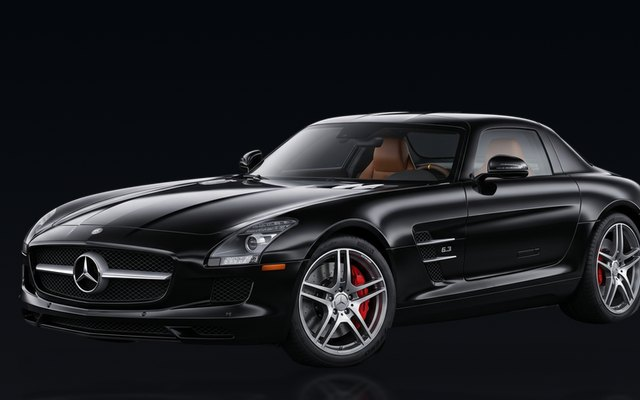
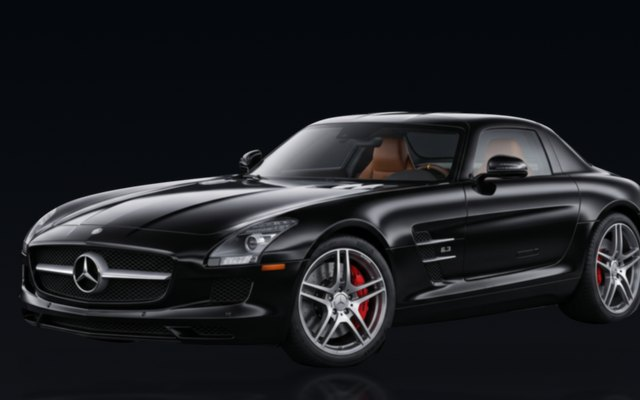
Restore the SLS's rear bumper, and soften it to the garage's detail
Paul spotted the car chopped behind the rear wheel. The cause was the
designer's cut-out, not the hero build: the rear quarter and bumper sit a few
levels off the black backdrop -- darker above the crease, lighter below it
where they catch the floor, and exactly backdrop-coloured across the crease
itself -- so the cut ran straight down the back of the tyre and left a
jagged corner piece stranded beside it. The outline was re-traced off the
render's own row profiles (render rows 704-948, edge at x 2536-2552), and
7,396 pixels restored from the render, unedited. Nothing else in the master
changed; the designer's original is in history.

He also asked why the SLS looked cleaner and sharper than the other fifteen.
Measured on the body (mean |L - blur 1.5px|), it was the sharpest car in the
garage: 9.7 against a median of 5.3 and a highest of 7.2 (the Senna). The
fifteen were cut 1:1 from 1374x768 JPEG frames; the SLS was cut from a
2816px render and shrunk about 3x, which carries detail those frames never
had. build-car-hero.py gains --soften, a premultiplied blur of the car's
colour (never its outline) applied before the floor is derived; at 0.7px the
SLS measures 6.35, inside the fifteen's 2.62-7.18.

Its contrast (57 against a median 38) is the render's studio lighting and is
left alone: evening that out would be grading, not matching resolution.

Geometry unchanged: 758x305, lowest pixel row 474, groundLine 0.6598.

diff --git a/scripts/build-car-hero.py b/scripts/build-car-hero.py
@@ -1,12 +1,12 @@
 #!/usr/bin/env python3
 """Build a car's hero PNG and index tile from a cut-out.
 
-    python3 scripts/build-car-hero.py <cutout.png> <slug> --width <px> [--hue LO-HI]
+    python3 scripts/build-car-hero.py <cutout.png> <slug> --width <px> [--hue LO-HI] [--soften SIGMA]
     python3 scripts/build-car-hero.py --check <slug> [<slug> ...]
 
 The SLS AMG (car 16) was built with:
     python3 scripts/build-car-hero.py docs/design/cars/car-16-sls-amg-cutout.png \\
-        mercedes-sls-amg --width 758 --hue 18-45
+        mercedes-sls-amg --width 758 --hue 18-45 --soften 0.7
 
 The first form writes public/cars/<slug>.png (898 x 660 RGBA) and
 public/cars/<slug>-tile.jpg (640 x 400), then prints the numbers cars.ts
@@ -43,7 +43,7 @@ import os
 import sys
 
 import numpy as np
-from PIL import Image
+from PIL import Image, ImageFilter
 
 ROOT = os.path.dirname(os.path.dirname(os.path.abspath(__file__)))
 CARS = os.path.join(ROOT, "public", "cars")
@@ -140,6 +140,26 @@ def mirror(layer, k):
     out = resample_rows(layer, AXIS - (y - AXIS) / k)
     out[y < AXIS] = 0
     return out
+
+
+def soften(car_img, sigma):
+    """Blur the car's colour (not its outline) by `sigma` px.
+
+    The fifteen were cut at 1:1 from 1374 x 768 JPEG frames; a car cut from a
+    bigger render and shrunk carries detail none of them has — the SLS, from a
+    2816px render at 0.34x, measured 9.7 on the fine-detail scale (mean
+    |L - blur 1.5px| on the body) against a median 5.3 for the fifteen, the
+    sharpest car in the garage by a distance. Premultiplied, so no dark rim
+    bleeds in from the transparent pixels; alpha is left as cut.
+    """
+    a = np.asarray(car_img).astype(float) / 255
+    alpha = a[:, :, 3]
+    pre = a[:, :, :3] * alpha[:, :, None]
+    soft_pre = np.stack([blur(pre[:, :, c], sigma, sigma) for c in range(3)], 2)
+    soft_a = blur(alpha, sigma, sigma)
+    rgb = np.where(soft_a[:, :, None] > 1e-4, soft_pre / np.maximum(soft_a, 1e-4)[:, :, None], 0)
+    rgb = np.where(alpha[:, :, None] > 0, rgb, a[:, :, :3])
+    return Image.fromarray(np.round(np.dstack([np.clip(rgb, 0, 1), alpha]) * 255).astype(np.uint8), "RGBA")
 
 
 def ground_layers(car):
@@ -294,9 +314,20 @@ def build_tile(hero):
     return base.convert("RGB")
 
 
-def build(cutout_path, slug, width, hue_band):
+def detail(img):
+    """Fine detail on the body: mean |L - gaussian(L, 1.5px)| where alpha is solid."""
+    a = np.asarray(img.convert("RGBA")).astype(float)
+    solid = np.asarray(Image.fromarray(((a[:, :, 3] >= 250) * 255).astype(np.uint8)).filter(ImageFilter.MinFilter(7))) > 127
+    lum = a[:, :, :3] @ [0.299, 0.587, 0.114]
+    soft = np.asarray(Image.fromarray(np.clip(lum, 0, 255).astype(np.uint8)).filter(ImageFilter.GaussianBlur(1.5))).astype(float)
+    return float(np.abs(lum - soft)[solid].mean())
+
+
+def build(cutout_path, slug, width, hue_band, sigma=0.0):
     cutout = Image.open(cutout_path).convert("RGBA")
     car, scale = place(cutout, width)
+    if sigma:
+        car = soften(car, sigma)
     f = np.asarray(car).astype(float) / 255
     floor_a, floor_pre = ground_layers(f)
     a, pre = over(f[:, :, 3], f[:, :, :3] * f[:, :, 3:], floor_a, floor_pre)
@@ -321,6 +352,7 @@ def build(cutout_path, slug, width, hue_band):
     print(f"floor     {stray} rim pixels pushed over alpha {CAR} by the floor (bbox unchanged)")
     print(f"groundLine {ground_line(alpha8)}")
     print(f"palette   {palette(cutout, hue_band)}")
+    print(f"detail    {detail(hero):.2f} (fifteen: median 5.32, range 2.62-7.18)")
 
 
 def check(slug):
@@ -342,12 +374,14 @@ if __name__ == "__main__":
     p.add_argument("slug", nargs="?")
     p.add_argument("--width", type=int, help="the car's width in px (alpha > 200); the fifteen run 660-758")
     p.add_argument("--hue", metavar="LO-HI", help="one livery hue for the palette, in degrees, e.g. 18-45")
+    p.add_argument("--soften", type=float, default=0.0, metavar="SIGMA",
+                   help="blur the car's colour to the fifteen's detail level (see soften())")
     p.add_argument("--check", nargs="+", metavar="SLUG")
     args = p.parse_args()
     if args.check:
         for s in args.check:
             check(s)
     elif args.cutout and args.slug and args.width:
-        build(args.cutout, args.slug, args.width, args.hue)
+        build(args.cutout, args.slug, args.width, args.hue, args.soften)
     else:
         p.error("give <cutout> <slug> --width, or --check <slug> ...")

diff --git a/docs/design/cars/MANIFEST.md b/docs/design/cars/MANIFEST.md
@@ -50,7 +50,7 @@ travels as one bundle with a self-contained brief:
 | file | what it is |
 |---|---|
 | `car-16-sls-render-doors-closed-2816.jpg` | the render to work from — Gemini-generated for this site, 2816×1536, doors closed. Right car and angle; its floor is 6x lighter than the site's background, so it needs re-staging or a cut-out |
-| `car-16-sls-amg-cutout.png` | **the master the hero and tile are built from** — that render cut out onto transparency by the designer, 2299×958 RGBA, car only. One addition: the US amber side-marker his car has and the render lacked. Rebuild with `python3 scripts/build-car-hero.py docs/design/cars/car-16-sls-amg-cutout.png mercedes-sls-amg --width 758 --hue 18-45` |
+| `car-16-sls-amg-cutout.png` | **the master the hero and tile are built from** — that render cut out onto transparency by the designer, 2299×958 RGBA, car only. One addition: the US amber side-marker his car has and the render lacked. **Repaired 23 Sep 2026:** the designer's cut had lost the rear quarter and bumper behind the rear wheel (render rows 704–948), which sit within a few levels of the black backdrop and cross it at the bumper's crease — the page showed a notch there. The outline was re-traced off the render's own row profiles and those 7,396 pixels restored from the render, unedited; nothing else changed (the designer's original is in git history). Rebuild with `python3 scripts/build-car-hero.py docs/design/cars/car-16-sls-amg-cutout.png mercedes-sls-amg --width 758 --hue 18-45 --soften 0.7` |
 | `car-16-ref-1-rear-three-quarter-doors-up.jpeg` | dealer photo of his actual car (AbujaCar, Sep 2026) |
 | `car-16-ref-2-front-three-quarter-doors-closed.jpeg` | dealer photo — the angle the render must match |
 | `car-16-ref-3-front-three-quarter-doors-up.jpeg` | dealer photo — face, `6.3` fin vents, tan interior |
